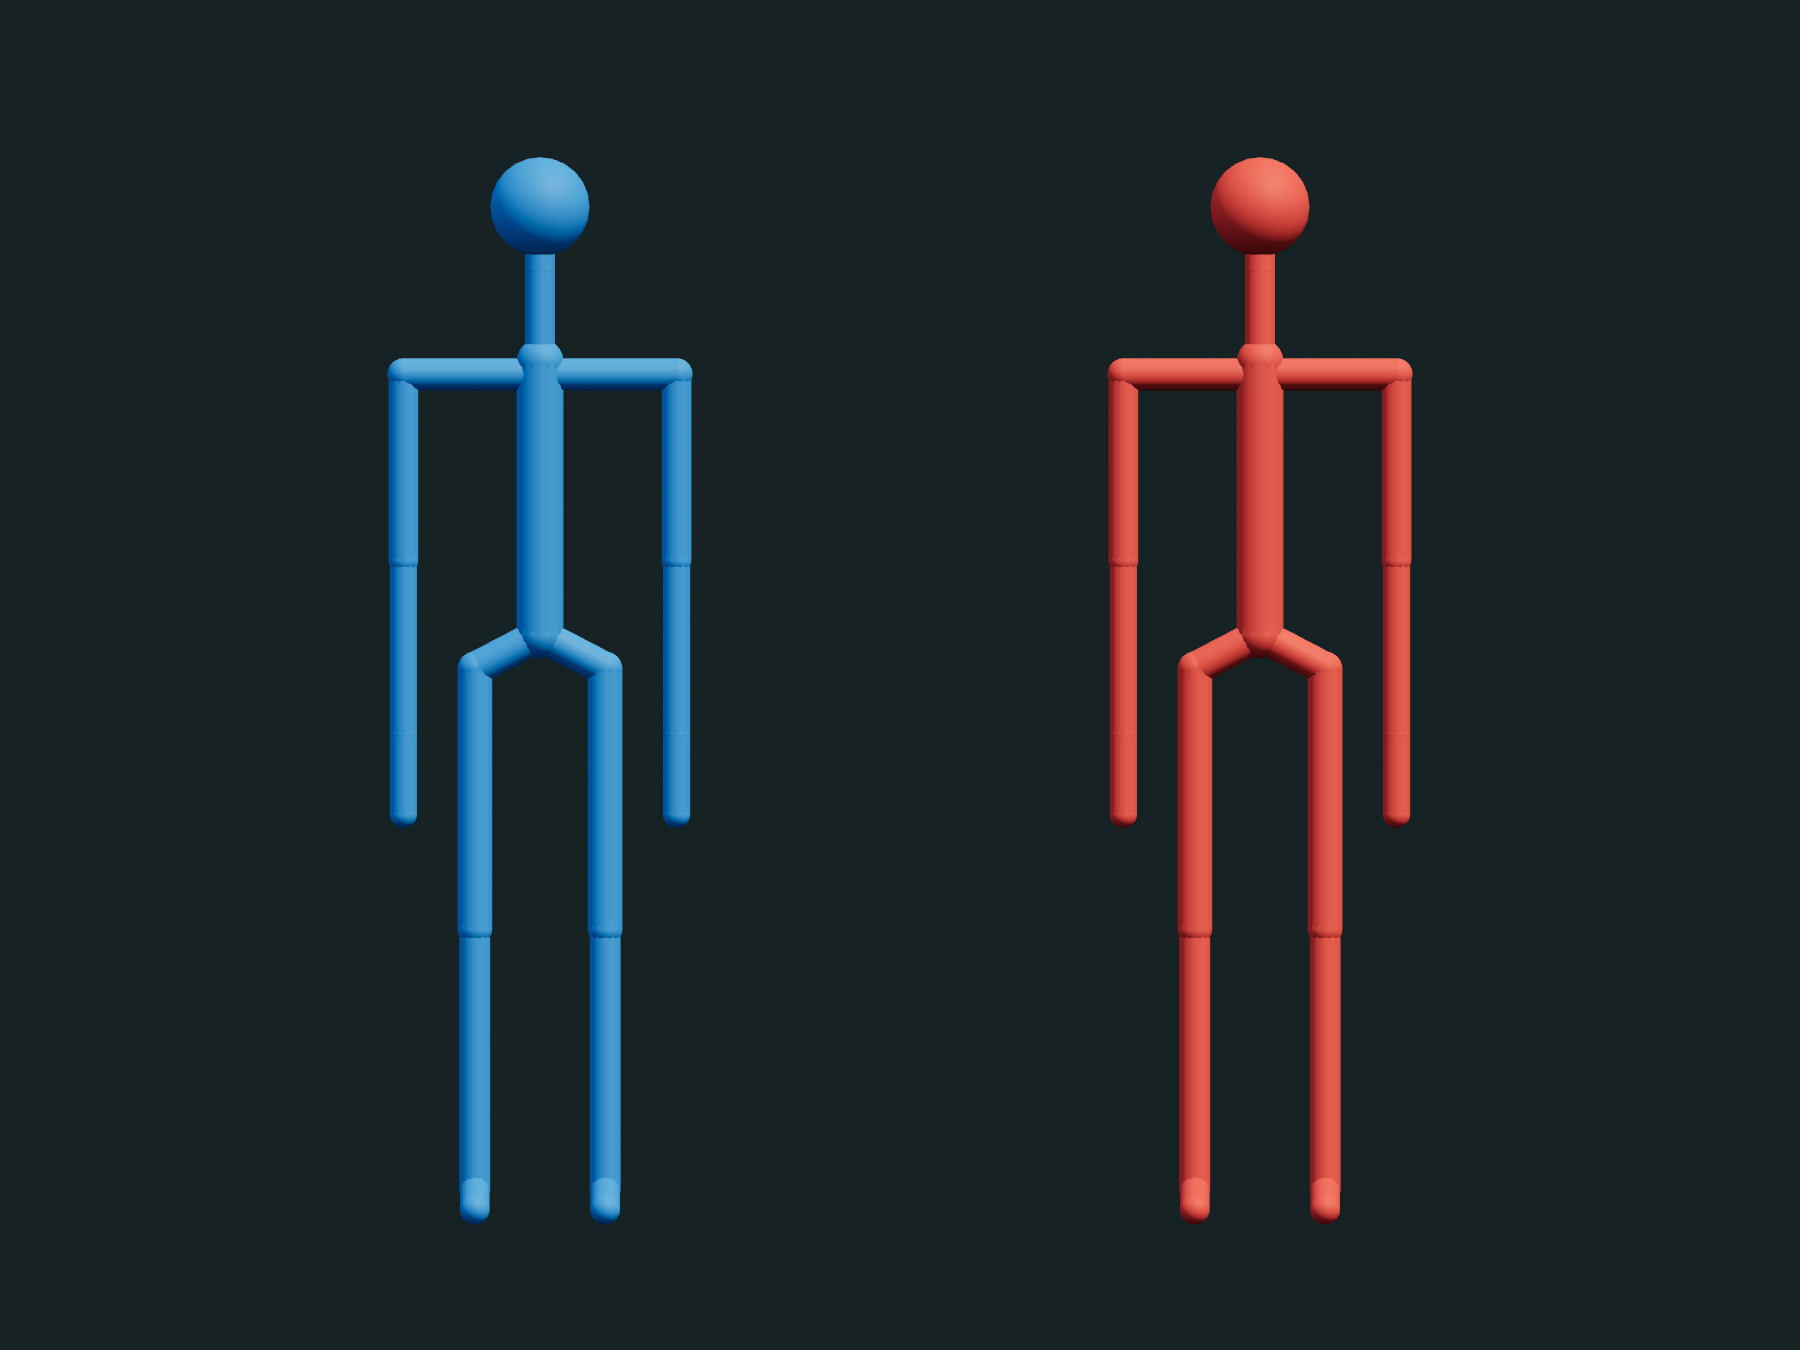
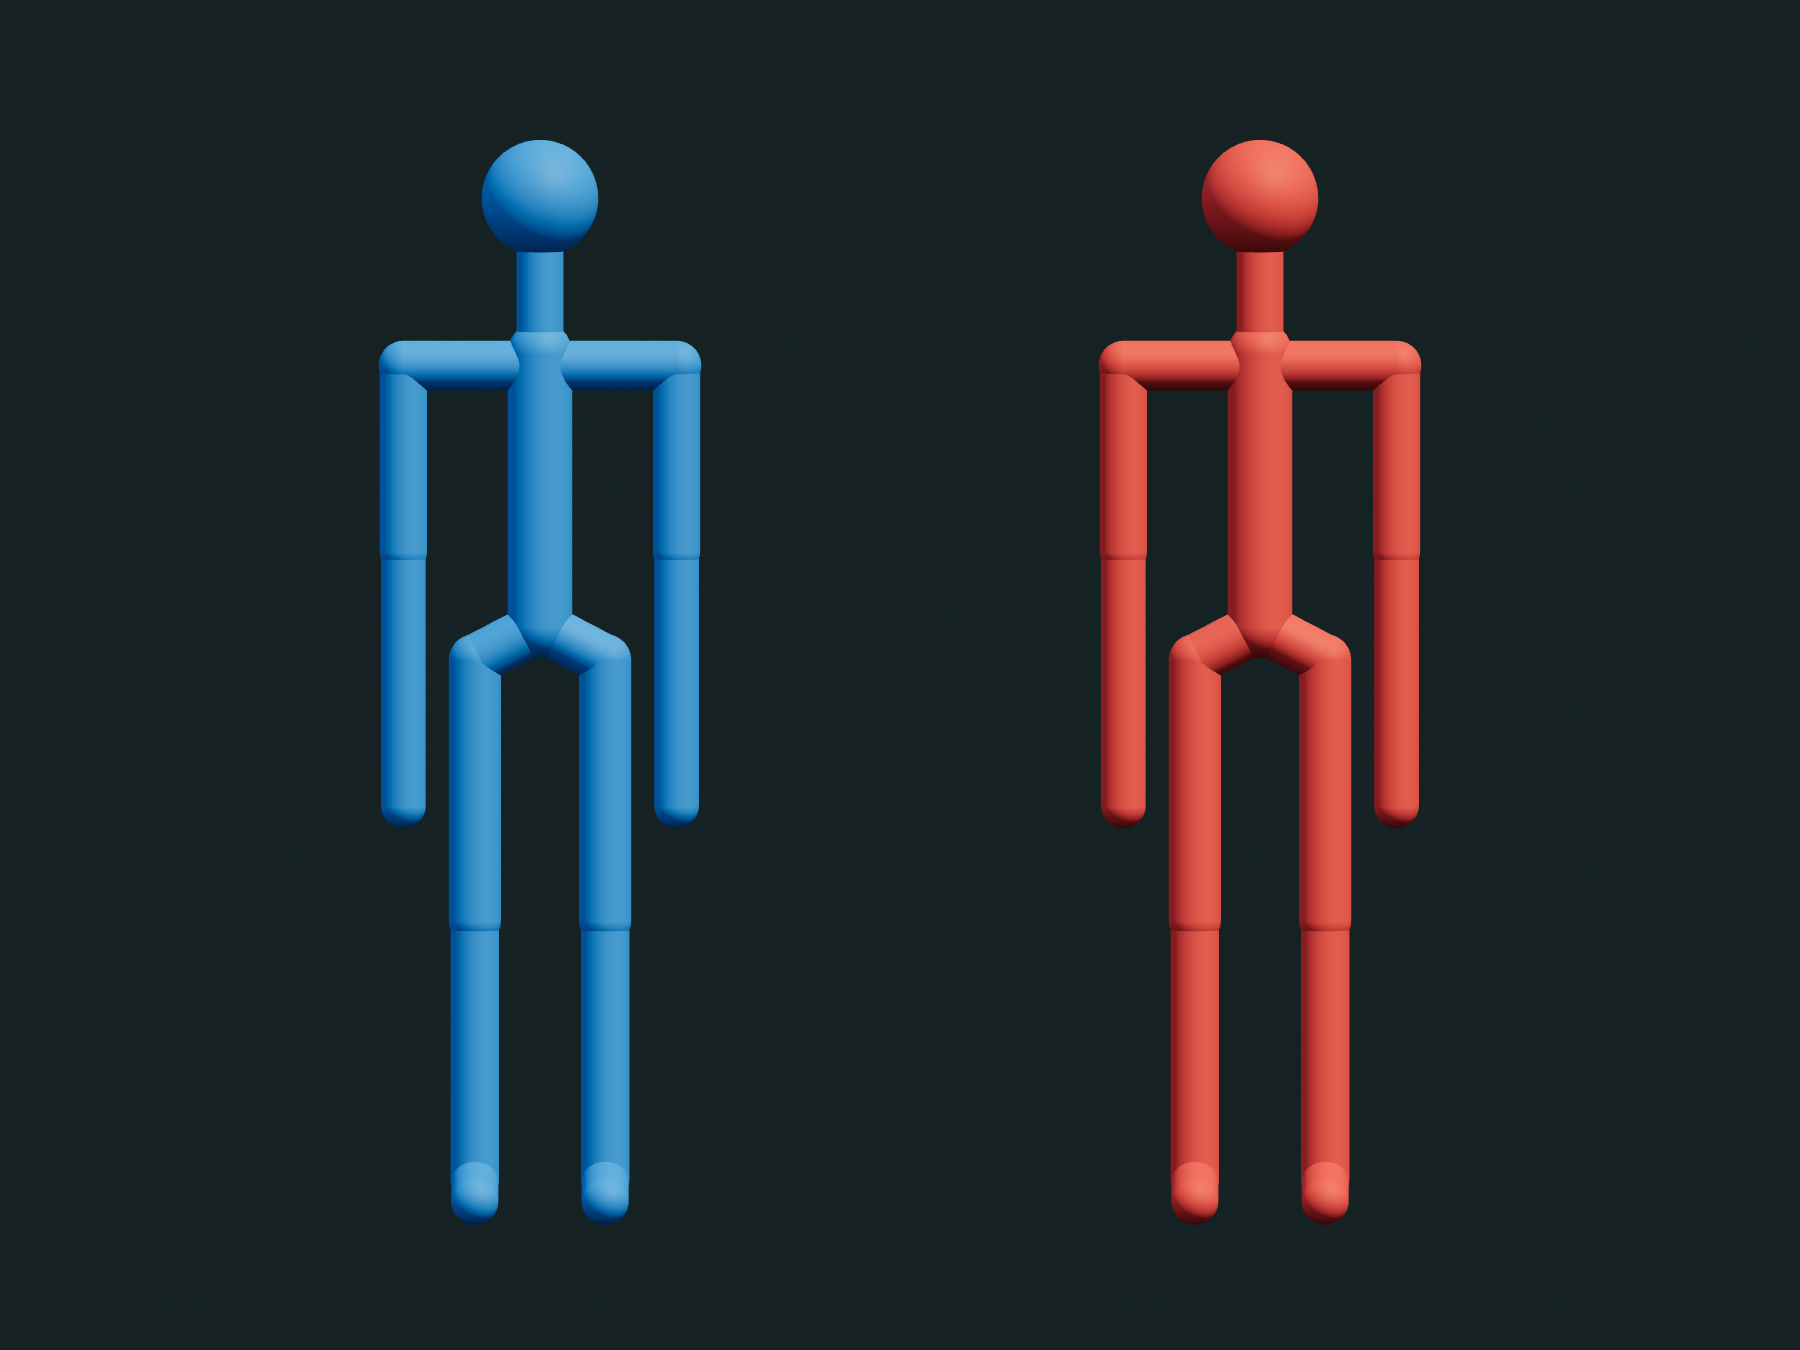
Thicken shared stick figure uniformly (#2)

diff --git a/src/index.js b/src/index.js
@@ -1,7 +1,9 @@
 import * as THREE from 'three';
 
 // One model definition for both experiments. Cylinders and round endpoints form
-// literal thin sausages; no mesh sculpting, skin, facial parts or animation clips.
+// straight sausages; no mesh sculpting, skin, facial parts or animation clips.
+// Add the same radial thickness everywhere, including the head and endpoints.
+const RADIUS_INCREASE = .014;
 const SEGMENTS = [
   ['pelvis','chest',.038], ['chest','neck',.024], ['neck','head',.024],
   ['shoulderL','shoulderR',.026], ['pelvis','hipL',.027], ['pelvis','hipR',.027],
@@ -9,26 +11,28 @@ const SEGMENTS = [
   ['shoulderR','elbowR',.024], ['elbowR','wristR',.022], ['wristR','handR',.022],
   ['hipL','kneeL',.028], ['kneeL','ankleL',.025], ['ankleL','toeL',.024],
   ['hipR','kneeR',.028], ['kneeR','ankleR',.025], ['ankleR','toeR',.024],
-];
+].map(([from,to,radius])=>[from,to,radius+RADIUS_INCREASE]);
 const JOINTS = [
   ['pelvis',.038], ['chest',.038], ['neck',.024], ['head',.080],
   ['shoulderL',.026], ['elbowL',.024], ['wristL',.022], ['handL',.022],
   ['shoulderR',.026], ['elbowR',.024], ['wristR',.022], ['handR',.022],
   ['hipL',.028], ['kneeL',.028], ['ankleL',.025], ['toeL',.024],
   ['hipR',.028], ['kneeR',.028], ['ankleR',.025], ['toeR',.024],
-];
-export const MODEL = Object.freeze({name:'Sausages and circles',height:1.715,upperArm:.30,forearm:.28,hand:.13,thigh:.42,shin:.42,segments:SEGMENTS.length,joints:JOINTS.length,kind:'instanced cylinders and spheres'});
+].map(([name,radius])=>[name,radius+RADIUS_INCREASE]);
+export const MODEL = Object.freeze({name:'Sausages and circles',height:1.715+2*RADIUS_INCREASE,upperArm:.30,forearm:.28,hand:.13,thigh:.42,shin:.42,segments:SEGMENTS.length,joints:JOINTS.length,kind:'instanced cylinders and spheres'});
 const neutral={pelvis:[0,.945,0],chest:[0,1.385,0],neck:[0,1.535,0],head:[0,1.635,0]};
 for(const[side,s]of[['L',1],['R',-1]])Object.assign(neutral,{['shoulder'+side]:[s*.22,1.365,0],['elbow'+side]:[s*.22,1.065,0],['wrist'+side]:[s*.22,.785,0],['hand'+side]:[s*.22,.655,0],['hip'+side]:[s*.105,.89,0],['knee'+side]:[s*.105,.47,0],['ankle'+side]:[s*.105,.05,0],['toe'+side]:[s*.105,.025,.17]});
-export const NEUTRAL_POSE=Object.freeze(Object.fromEntries(Object.entries(neutral).map(([name,p])=>[name,Object.freeze(p)])));
+// Raise the canonical resting pose by the added sole thickness. Physical Dive
+// landmarks are supplied separately and remain unchanged by the visual model.
+export const NEUTRAL_POSE=Object.freeze(Object.fromEntries(Object.entries(neutral).map(([name,p])=>[name,Object.freeze([p[0],p[1]+RADIUS_INCREASE,p[2]])])));
 
 /** Coordinates are local to root. The caller supplies physical or gait-IK joint
  * landmarks; this model only draws them and never chooses or modifies a pose. */
 export function createStickFigure({color='#348cdd',onReady}={}) {
   const root=new THREE.Group();root.name='SharedStickFigure';
   const material=new THREE.MeshStandardMaterial({color,roughness:.64,metalness:0});
-  const cylinder=new THREE.CylinderGeometry(1,1,1,12,1,true);
-  const sphere=new THREE.SphereGeometry(1,16,12);
+  const cylinder=new THREE.CylinderGeometry(1,1,1,32,1,true);
+  const sphere=new THREE.SphereGeometry(1,32,24);
   const limbs=new THREE.InstancedMesh(cylinder,material,SEGMENTS.length);
   const joints=new THREE.InstancedMesh(sphere,material,JOINTS.length);
   limbs.name='StraightSausages';joints.name='RoundEndpoints';

diff --git a/README.md b/README.md
@@ -1,12 +1,12 @@
 # Shared stick figure
 
-One original model used by both Hide and Seek and Learn to Dive: thin straight
+One original model used by both Hide and Seek and Learn to Dive: straight
 cylinders with round endpoints and one small sphere head. The two instanced meshes
 draw eighteen segments and twenty joint markers. There is no sculpted mesh, GLB,
 face, clothing, skinning, pose generator or animation clip. Only the role color
 changes between uses; dimensions and model code are shared. `NEUTRAL_POSE` and
 `MODEL` provide the one canonical set of landmarks and limb lengths. Hide and
-Seek scales this 1.715 m figure uniformly to 0.70 m; Dive uses the actual physical
+Seek scales this 1.743 m figure uniformly to 0.70 m; Dive uses the actual physical
 landmarks in meters. Neither application defines a second character mesh.
 
 ![The same shared model with blue and red role colors](examples/shared-model.png)
